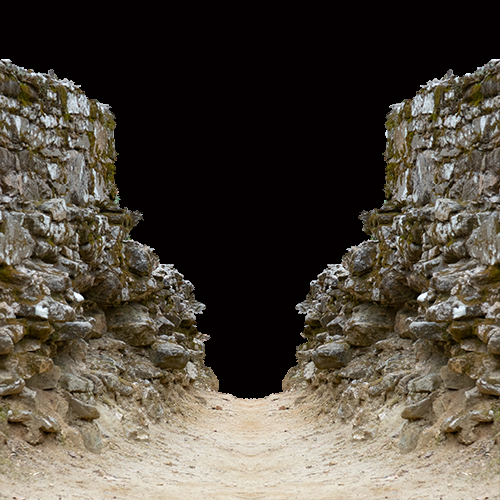
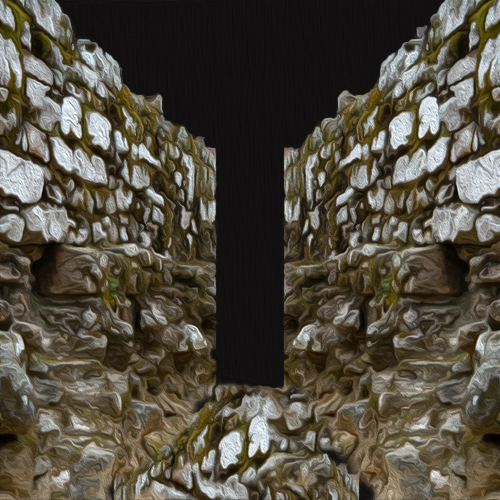
added movement artwork

diff --git a/frontend/static/src/App.js b/frontend/static/src/App.js
@@ -5,20 +5,21 @@ import TextWindow from './Components/TextWindow';
 import CharWindow from './Components/CharWindow';
 import GraphicsWindow from './Components/GraphicsWindow';
 import Rooms from './Components/Rooms';
-import CombatWindow from './Components/CombatWindow'
-import Nav from './Components/Nav'
-import Inventory from './Components/Inventory'
-import Character from './Components/Character'
-import Login from './Components/Login'
+import CombatWindow from './Components/CombatWindow';
+import Nav from './Components/Nav';
+import Inventory from './Components/Inventory';
+import Character from './Components/Character';
+import Login from './Components/Login';
 import Cookies from 'js-cookie';
 import {Modal, Button} from "react-bootstrap";
-import Magic from './Components/Magic'
-import CharCreate from './Components/CharCreate'
-import moblist from './moblist'
-import rooms from './roomlist'
-import dungeonStatic from './images/dungeonStatic.jpg'
+import Magic from './Components/Magic';
+import CharCreate from './Components/CharCreate';
+import moblist from './moblist';
+import rooms from './roomlist';
+import dungeonWalk from './images/dungeonWalk.gif';
+import dungeonStatic from './images/dungeonStatic.jpg';
 import 'bootstrap/dist/css/bootstrap.min.css';
-import arch from './images/arch.jpg'
+import arch from './images/arch.jpg';
 import './App.css';
 
 
@@ -56,7 +57,7 @@ this.resetWindow = this.resetWindow.bind(this);
 this.randomMob = this.randomMob.bind(this);
 this.heal = this.heal.bind(this);
 this.charWins = this.charWins.bind(this);
-this.changeRoomImage = this.changeRoomImage.bind(this);
+// this.changeRoomImage = this.changeRoomImage.bind(this);
 this.handleInput = this.handleInput.bind(this);
 this.handleImmInput = this.handleImmInput.bind(this);
 this.goto = this.goto.bind(this);
@@ -82,20 +83,6 @@ this.gameOn = this.gameOn.bind(this);
             xp: null,
           }
 
-          const char = {
-                  charId: 1,
-                  name: "Please log in to load your character",
-                  lvl: null,
-                  ac: null,
-                  hpmax: null,
-                  hp: null,
-                  spmax: null,
-                  sp: null,
-                  class: null,
-                  weapon: null,
-                  xp: null,
-                }
-
     const charWeapon = {
             weaponId: 1,
             name: "longsword",
@@ -104,19 +91,6 @@ this.gameOn = this.gameOn.bind(this);
             damMessage: "slashes",
           }
 
-    const mob = {
-            mobId: 1,
-            name: "Bob the Dummy",
-            damage: 1,
-            attack: 10,
-            hp: 10,
-            hpmax: 10,
-            sp: "null",
-            spmax: "null",
-            ac: 10,
-            weapon: "wooden sword",
-            damMessage: "pokes",
-    }
     const charSpell = {
             spellId: 1,
             name: "force bolt",
@@ -126,10 +100,6 @@ this.gameOn = this.gameOn.bind(this);
             damMessage: "slams"
     }
 
-          // this.setState({char})
-          // this.setState({mob})
-          // char default replaced by player character from database
-          // mob default replaced by random mob generator
           this.setState({defaultChar});
           this.setState({charWeapon})
           this.setState({charSpell})
@@ -142,20 +112,19 @@ this.gameOn = this.gameOn.bind(this);
 
       document.addEventListener('keydown', this.logKey);
 
-
 }
 
-  logKey(e) {
-    if(e.code === 'MetaRight'){
-      this.setState(prevState => ({
-  builderInput: !prevState.builderInput
-}));
-    }
+logKey(e) {
+  if(e.code === 'MetaRight'){
+    this.setState(prevState => ({
+      builderInput: !prevState.builderInput
+    }));
+  }
 }
 
 gameOn(){
   this.setState({image: this.state.currentRoom.static})
-  this.setState({gameOn: true})
+  this.setState(prevState => ({gameOn: !prevState.gameOn}));
   setTimeout(()=>{window.location.reload()}, 2000);
 }
 
@@ -168,10 +137,7 @@ else {
 }
 }
 
-changeRoomImage(img, img2){
-  this.setState({image: img})
-  setTimeout(() => {this.setState({image: img2})}, 1500);
-}
+
 
 rando(min, max) {
   return Math.floor(Math.random() * (max - min) ) + min;
@@ -186,7 +152,6 @@ randomMob(){
 
 }
 
-
 resetWindow(){
   setTimeout(() => {this.setState({combat: false})}, 4000);
   setTimeout(() => {this.setState({combatwindow: false})}, 4000);
@@ -194,8 +159,6 @@ resetWindow(){
   setTimeout(() => {this.setState({mobAttackMessage: ""})}, 4000);
   setTimeout(() => {this.setState({playerMessage: ""})}, 4000);
 }
-
-
 
 meleeAttack(char, mob, charWeapon) {
   if (this.state.combat == false){
@@ -280,12 +243,15 @@ charDeath(char){
   <Rooms death={()=>this.setState({currentroom: rooms[0]})}/>
 }
 
-
-
 handleInput(event){
-this.setState({[event.target.name]: event.target.value});
+  this.setState({[event.target.name]: event.target.value});
 }
 
+travel(dest) {
+  this.setState({currentRoom: dest});
+  this.setState({image: this.state.currentRoom.walk});
+  setTimeout(() => {this.setState({image: this.state.currentRoom.static})}, 1500);
+  }
 
 
 //builder commands below
@@ -297,7 +263,7 @@ set(arg, arg2){
 }
 
 handleImmInput(event){
-this.setState({[event.target.name]: event.target.value});
+  this.setState({[event.target.name]: event.target.value});
 }
 
 heal(){
@@ -309,11 +275,7 @@ heal(){
 
 }
 
-travel(dest) {
-  this.setState({currentRoom: dest});
-  this.setState({image: this.state.currentRoom.walk})
-  setTimeout(() => {this.setState({image: this.state.currentRoom.static})}, 1500);
-  }
+
 
 
 goto(arg){
@@ -328,6 +290,7 @@ else {
   alert("That's not a real room.")
 }
 }
+
 peace(){
   this.setState({combat: false})
   alert('Combat stopped.')
@@ -336,8 +299,8 @@ peace(){
 
 
   render(){
+
     if(this.state.isLoggedIn == true && this.state.char){
-      this.state.image = this.state.currentRoom.static;
       this.state.gameOn = true;
     }
     const char = this.state.char
@@ -395,11 +358,8 @@ peace(){
       </Switch>
     </React.Fragment>
     {this.state.builderInput === true ? immWindow : null}
-
         </div>
-
         </div>
-
         </div>
 
   );

diff --git a/frontend/static/src/Components/Nav.js b/frontend/static/src/Components/Nav.js
@@ -22,10 +22,11 @@ class Nav extends Component {
     <nav className="navbar navbar-expand-lg">
     <div className="container-fluid">
     {this.props.all.gameOn == true ? <div className="navBox"><NavLink to="/">Game</NavLink></div> : null}
-    <div className="navBox"><NavLink to="/login/">Account</NavLink></div>
-    {!this.props.all.char && this.props.all.isLoggedIn === true ? <div className="navBox"><NavLink to="/character/create/">Create Char</NavLink></div> : null}
+
+    {!this.props.all.char && this.props.all.isLoggedIn === true ? <div className="navBox"><NavLink to="/character/create/">Create Character</NavLink></div> : null}
     {this.props.all.gameOn ? <div className="navBox"><NavLink to="/character/">Character</NavLink></div> : null}
     {this.props.all.gameOn ? <div className="navBox"><NavLink to="/magic/">Magic</NavLink></div> : null}
+    <div className="navBox"><NavLink to="/login/">{this.props.all.isLoggedIn ? `Account` : `Log In/Register`}</NavLink></div>
     </div>
     </nav>
 

diff --git a/frontend/static/src/Components/Character.js b/frontend/static/src/Components/Character.js
@@ -18,16 +18,21 @@ const charSheet1 = <div className="charSheet">
 <p>Level: {char.level}</p>
 </div>
 const charSheet2 = <div className="charSheet">
+<p>Strength: {char.str}</p>
+<p>Intelligence: {char.int}</p>
+<p>Dexterity: {char.dex}</p>
+<p>Constitution: {char.con}</p>
+</div>
+const charSheet3 = <div className="charSheet">
 <p>Armor: {char.ac}</p>
 <p>Health: {char.hp}</p>
 <p>Max Health: {char.hpmax}</p>
 </div>
-const charSheet3 = <div className="charSheet">
+const charSheet4 = <div className="charSheet">
 <p>Magic: {char.sp}</p>
 <p>Max Magic: {char.spmax}</p>
 <p>Experience: {char.xp}</p>
 </div>
-
 
   return(
 this.state.isLoggedIn ? <section>
@@ -41,7 +46,8 @@ this.state.isLoggedIn ? <section>
     <div className="col">
     {charSheet3}
     </div>
-    </div></section>
+    <div className="col">
+    {charSheet4}</div></div></section>
    : null
 
   );

diff --git a/frontend/static/src/Components/Login.js b/frontend/static/src/Components/Login.js
@@ -104,6 +104,7 @@ async handleRegistration(e, obj){
         Cookies.set('Authorization', `Token ${data.key}`);
       }
       this.setState({username: "", email: "", password1: "", password2: ""})
+      window.location.reload();
     }
 
 
@@ -127,7 +128,7 @@ async createProfile(){
 
 
 
-    handleLogout(){
+handleLogout(){
       const options = {
             method: 'POST',
             headers: {
@@ -142,6 +143,7 @@ async createProfile(){
           Cookies.remove('sessionid');
           localStorage.clear()
           window.location.reload();
+          this.props.gameOn();
 
 
     }

diff --git a/frontend/static/src/App.css b/frontend/static/src/App.css
@@ -3,6 +3,7 @@ background-color: lightgray;
 } */
 .centerNav {
   font-size: x-large;
+  font-weight: bold;
   /* bottom: 15px;
   position:fixed; */
 }
@@ -31,10 +32,8 @@ background-color: lightgray;
 .charbanner{
   font-weight: bold;
 }
-
-
 .charSheet{
-  font-size: small;
+  font-weight: bold;
 }
 
 .accountSheet{
@@ -142,4 +141,10 @@ transition: opacity 0 1s;
 }
 .charSubmit{
   margin-left: 20px;
+}
+
+.welcomeTitle{
+  font-weight: bold;
+  text-align: center;
+  padding-top: 20%;
 }

diff --git a/frontend/static/src/Components/Rooms.js b/frontend/static/src/Components/Rooms.js
@@ -62,7 +62,7 @@ else {
 
   return (
     <div>
-    {this.props.all.gameOn === true ? <h1>{roomname}</h1> : <h1>Welcome to This Unnamed Role Playing Game</h1>}
+    {this.props.all.gameOn === true ? <h1>{roomname}</h1> : <h1 className="welcomeTitle">Welcome to This Unnamed Role Playing Game</h1>}
     <p id="moveMsg">{moveMsg}</p>
     {this.props.all.gameOn === true ? <p>{desc}</p> : null}
     {this.props.all.gameOn === true ? <p id="nsew">{nsew}</p> : null}

diff --git a/frontend/static/src/Components/CharCreate.js b/frontend/static/src/Components/CharCreate.js
@@ -76,7 +76,7 @@ this.statDown = this.statDown.bind(this);
       const data = await response.json().catch(handleError);
       if(response.ok){
         this.setState({completed: `Character ${data.name}, a level ${data.level} ${data.job}, created!`, name: "", job: "Choose"});
-        setTimeout(()=>{this.props.history.push("/")}, 1500);
+        setTimeout(()=>{this.props.history.push("/character/")}, 1500);
         this.props.gameOn();
 
 
